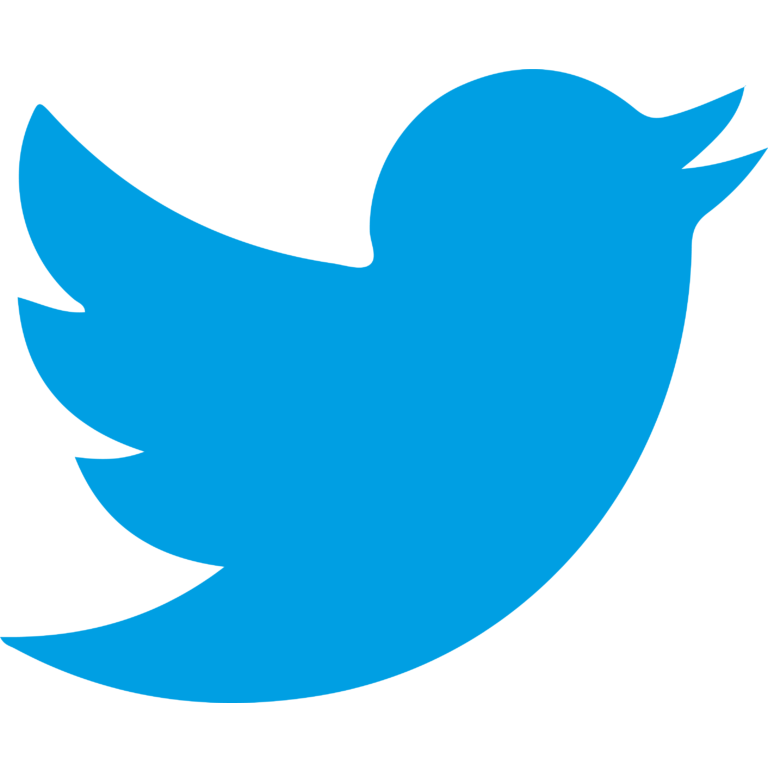
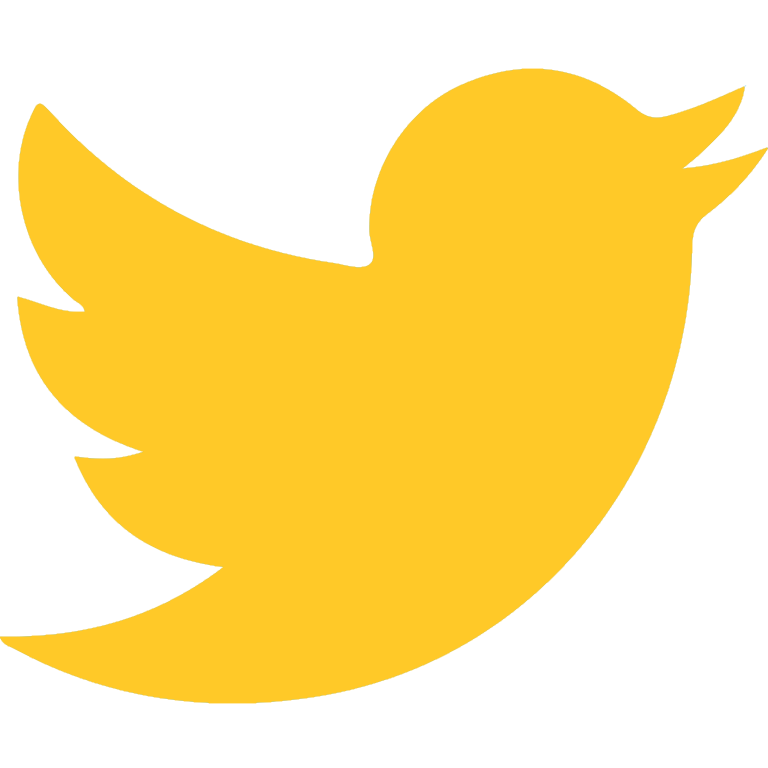
Update transparency Update site style

diff --git a/pages/shared/style/base.css b/pages/shared/style/base.css
@@ -1,6 +1,16 @@
+@font-face {
+    font-family: 'IBM_BIOS_2y';
+    src: url('/style/font/Web437_IBM_BIOS-2y.woff');
+}
+
 * {
-    font-family: 'Quicksand';
-    color: #fff;
+    font-family: 'IBM_BIOS_2y';
+    color: #ffc928;
+}
+
+a:any-link {
+    text-decoration: none;
+    color: #ffe084
 }
 
 body {
@@ -18,10 +28,9 @@ img.big-logo {
 
 .link-container > .center {
     position: relative;
-    left: 45%;
-    border-radius: 50%;
-    border: 0px solid #fff;
-    width: 10%;
+    left: 2.5%;
+    border: 0px solid #ffc928;
+    width: 100%;
     height: 10%;
     overflow: hidden;
     margin-bottom: 24px;
@@ -43,23 +52,30 @@ img.big-logo {
     font-size: 1.5vw;
     text-shadow: -1px -1px 0 #000, 1px -1px 0 #000, -1px 1px 0 #000, 1px 1px 0 #000;
     text-align: center;
+    text-decoration: none;
 }
 
-.center > a:hover + .quote {
-    display: none;
+.center {
+    padding-top: 15px;
+    font-size: 36pt;
+}
+
+.center > a {
+    text-decoration: none;
 }
 
 .center > a:hover:after {
-    content: "home";
+    content: "> home";
     position: absolute;
     left: 0;
     top: 0;
     width: 100%;
     height: 100%;
     background-color: #0006;
+    text-shadow: -1px -1px 0 #000, 1px -1px 0 #000, -1px 1px 0 #000, 1px 1px 0 #000;
     text-align: center;
-    line-height: 20vh;
-    font-size: 7vh;
+    font-size: 5vh;
+    line-height: 18vh;
 }
 
 .links {
@@ -79,6 +95,11 @@ img.big-logo {
 .link, .fake-link {
     flex-grow: 4;
     height: 24px;
+    padding-top: 3px;
+}
+
+.small-link {
+    padding-top: 0px;
 }
 
 .big-link {
@@ -109,7 +130,7 @@ img.big-logo {
 }
 
 .link-container > .links > .link, .link-container > .links > .fake-link {
-    border: 1px solid #fff4;
+    border: 1px solid #ffc928;
 }
 
 .link > a, .fake-link > a {
@@ -127,8 +148,8 @@ img.big-logo {
     padding-right: 12px;
     overflow-x: hidden;
     width: calc(95% - 40px);
-    border-left: 1px #fff2 solid;
-    border-bottom: 1px #fff2 solid;
+    border-left: 1px #ffc928 solid;
+    border-bottom: 1px #ffc928 solid;
 }
 
 .projects {
@@ -178,8 +199,8 @@ img.project-background {
 }
 
 table.transparency {
-    background-color: #ffd1;
-    border: solid 1px #fff;
+    background-color: #2222;
+    border: solid 1px #ffc928;
     text-align: center;
     width: 100%;
 }
@@ -189,8 +210,16 @@ table.transparency td {
 }
 
 table.transparency th {
-    background-color: #ffffff05;
-    font-size: 24pt;
+    background-color: #2222;
+    font-size: 18pt;
+}
+
+.transparency-party, .transparency-amount {
+    width: 15%;
+}
+
+.transparency-comment {
+    width: 70%;
 }
 
 .video-container {
